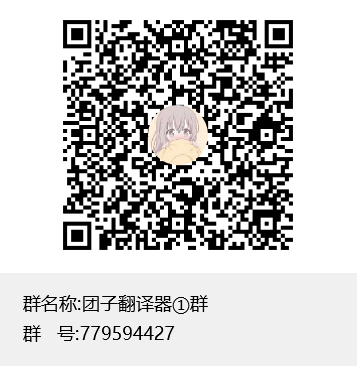
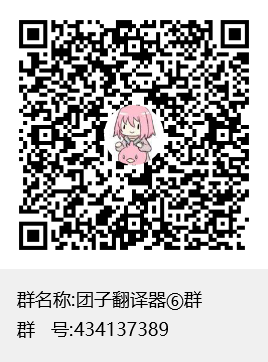
初始化加载图片

diff --git a/ui/settin.py b/ui/settin.py
@@ -31,6 +31,7 @@ GOOD_ICON_PATH = "./config/icon/good.png"
 HOLLOW_IMG_PATH = "./config/other/描边.png"
 SOLID_IMG_PATH = "./config/other/实心.png"
 BG_IMAGE_PATH = "./config/background/settin.jpg"
+QQ_GROUP_PATH = "./config/other/交流群.png"
 
 
 # 重构QTabWidget使其竖直选项卡文字水平
@@ -1718,9 +1719,9 @@ class Settin(QMainWindow) :
         elif message_type == "fontType" :
             self.desc_ui.setWindowTitle("字体样式设定说明")
             self.desc_ui.desc_text.append("描边字体为字体中间镂空白底, 描边带颜色:\n")
-            self.desc_ui.desc_text.insertHtml('<img src={} width="{}" >'.format(HOLLOW_IMG_PATH, 195 * self.rate))
+            self.desc_ui.desc_text.insertHtml('<img src={} width="{}" >'.format(HOLLOW_IMG_PATH, 195*self.rate))
             self.desc_ui.desc_text.append("\n实心字体为纯色字体:\n")
-            self.desc_ui.desc_text.insertHtml('<img src="{}" width="{}" >'.format(SOLID_IMG_PATH, 195 * self.rate))
+            self.desc_ui.desc_text.insertHtml('<img src="{}" width="{}" >'.format(SOLID_IMG_PATH, 195*self.rate))
             self.desc_ui.desc_text.append("\n顺便一提团子喜欢描边字体~")
 
         # 自动翻译设定说明
@@ -1758,7 +1759,7 @@ class Settin(QMainWindow) :
         # QQ交流群
         elif message_type == "qqGroup":
             self.desc_ui.setWindowTitle("加入交流群")
-            self.desc_ui.qq_group_image.show()
+            self.desc_ui.desc_text.insertHtml('<img src={} width="{}" >'.format(QQ_GROUP_PATH, 195*self.rate))
 
         self.desc_ui.show()
 

diff --git a/app.py b/app.py
@@ -34,6 +34,8 @@ class DangoTranslator() :
         self.yaml["dict_info"] = utils.config.getDictInfo(self.yaml["dict_info_url"], self.logger)
         # 屏幕分辨率
         self.yaml["screen_scale_rate"] = utils.screen_rate.getScreenRate(self.logger)
+        # 初始化图片资源
+        utils.thread.createThread(self.InitLoadImage)
 
 
     # 登录
@@ -96,6 +98,14 @@ class DangoTranslator() :
         self.translation_ui.close()
         self.range_ui.close()
         self.settin_ui.show()
+
+
+    # 初始化图片资源
+    def InitLoadImage(self) :
+
+        # 加载QQ群图片
+        qq_group_url = self.yaml["dict_info"]["dango_qq_group"]
+        utils.http.downloadFile(qq_group_url, "./config/other/交流群.png", self.logger)
 
 
     # 主函数

diff --git a/utils/http.py b/utils/http.py
@@ -39,3 +39,15 @@ def loginDangoOCR(object) :
         object.config["DangoToken"] = res.get("Token", "")
     else :
         object.logger.error(res.get("ErrorMsg", ""))
+
+
+# 下载文件
+def downloadFile(url, save_path, logger) :
+
+    try :
+        res = requests.get(url, stream=True)
+        content = res.content
+        with open(save_path, "wb") as file :
+            file.write(content)
+    except Exception :
+        logger.error(format_exc())
